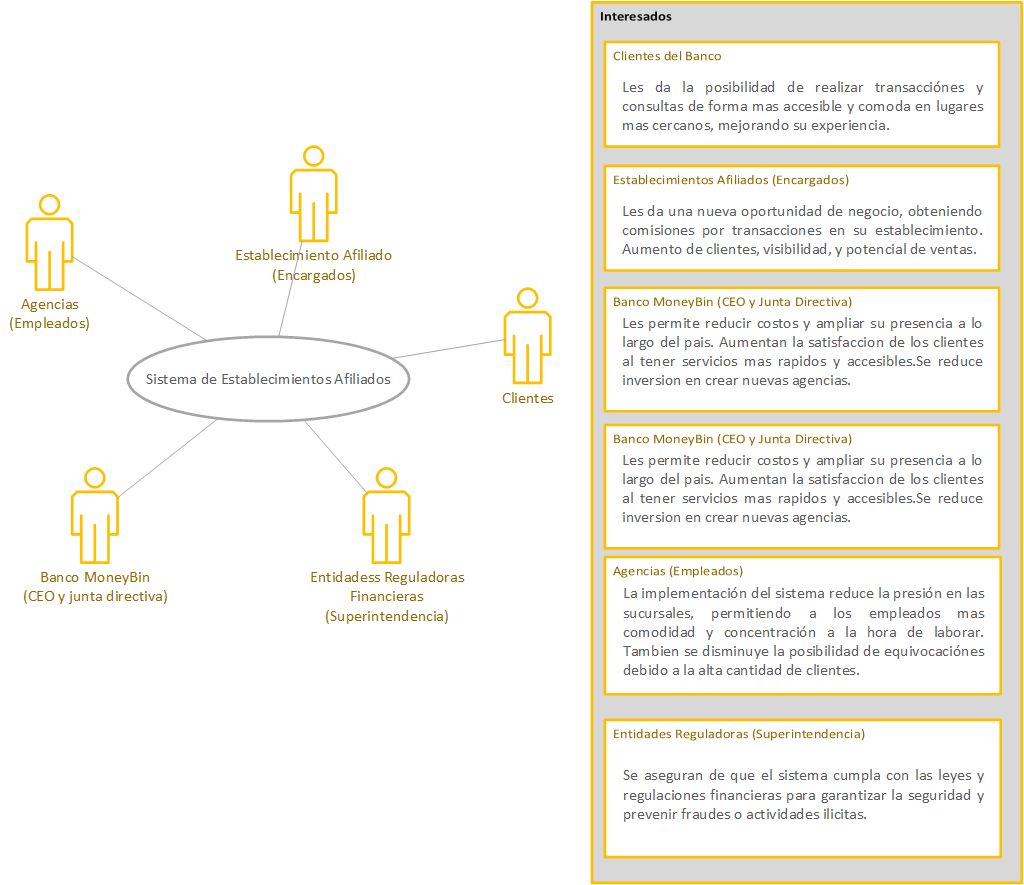
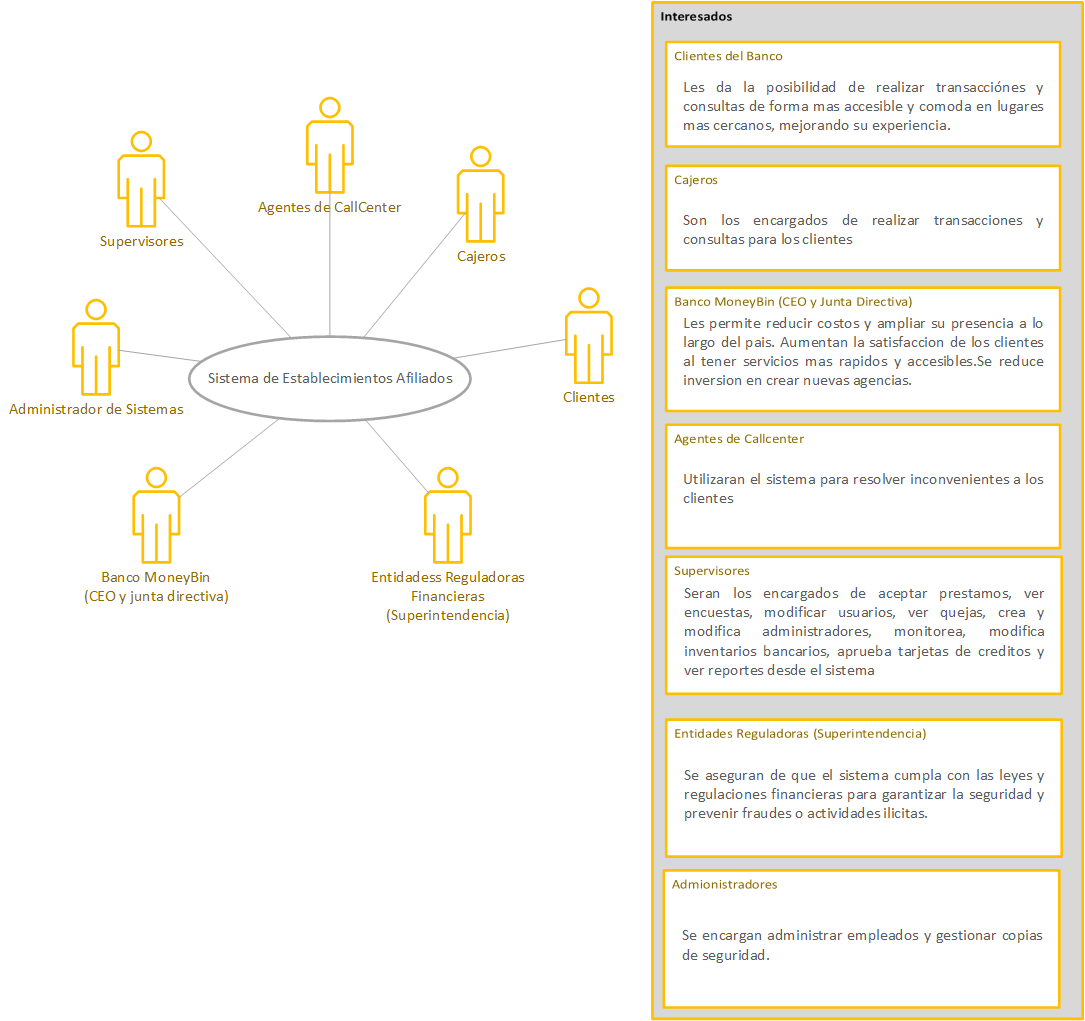
[ADD] se actualizan cdus

diff --git a/Documentacion/Manual Tecnico.md b/Documentacion/Manual Tecnico.md
@@ -115,9 +115,13 @@ El desarrollo de esta plataforma digital representa un paso más en la evolució
 
 ### CDU ALTO NIVEL
 
-
+![cdu alto nivel](./assets/cajero/general-corregido.png)
 
 #### Primera Descomposición
+
+![cdu alto nivel](./assets/cajero/general.png)
+
+### Diagramas de CDUs
 
 #### 1. ROL CAJERO
 
